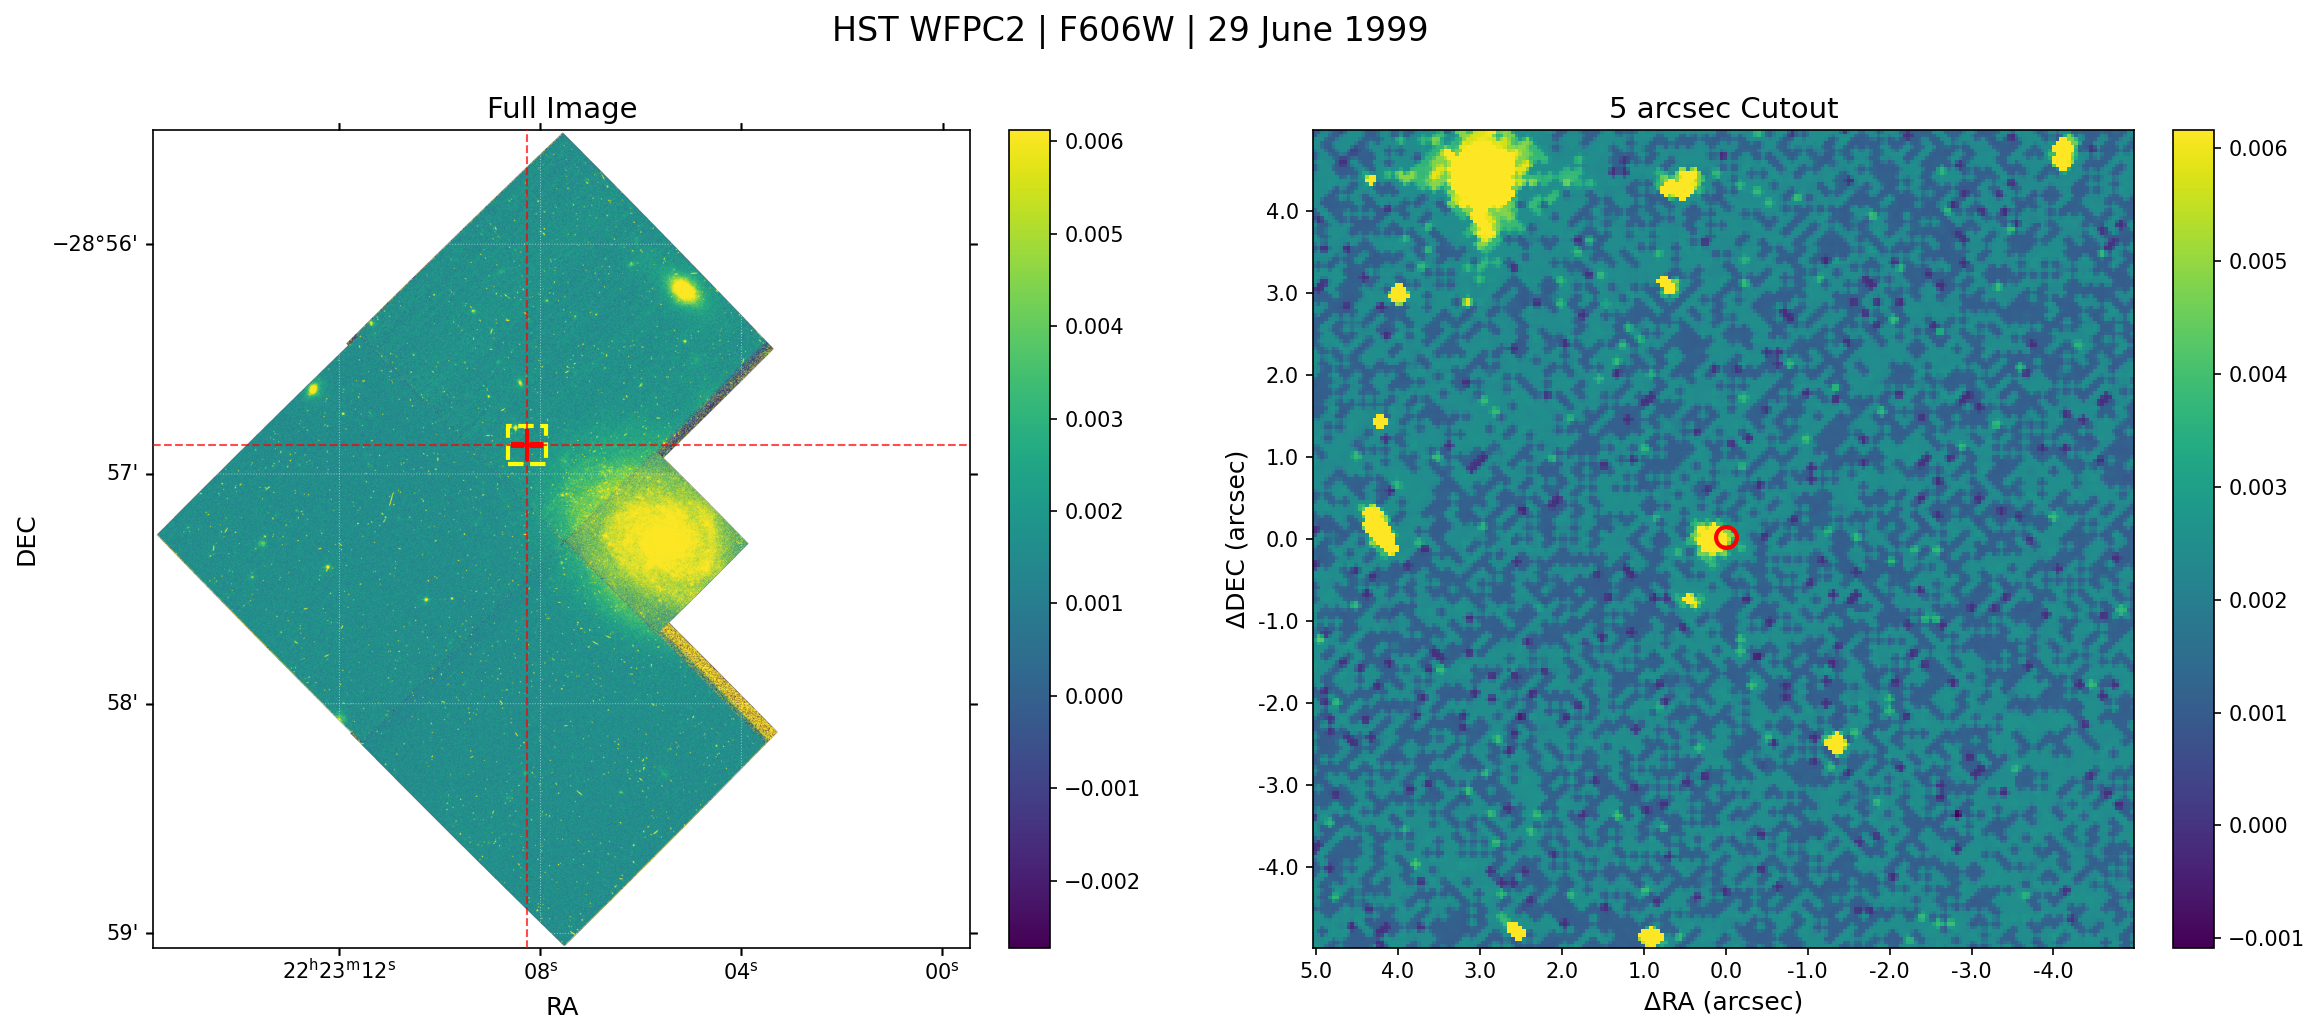
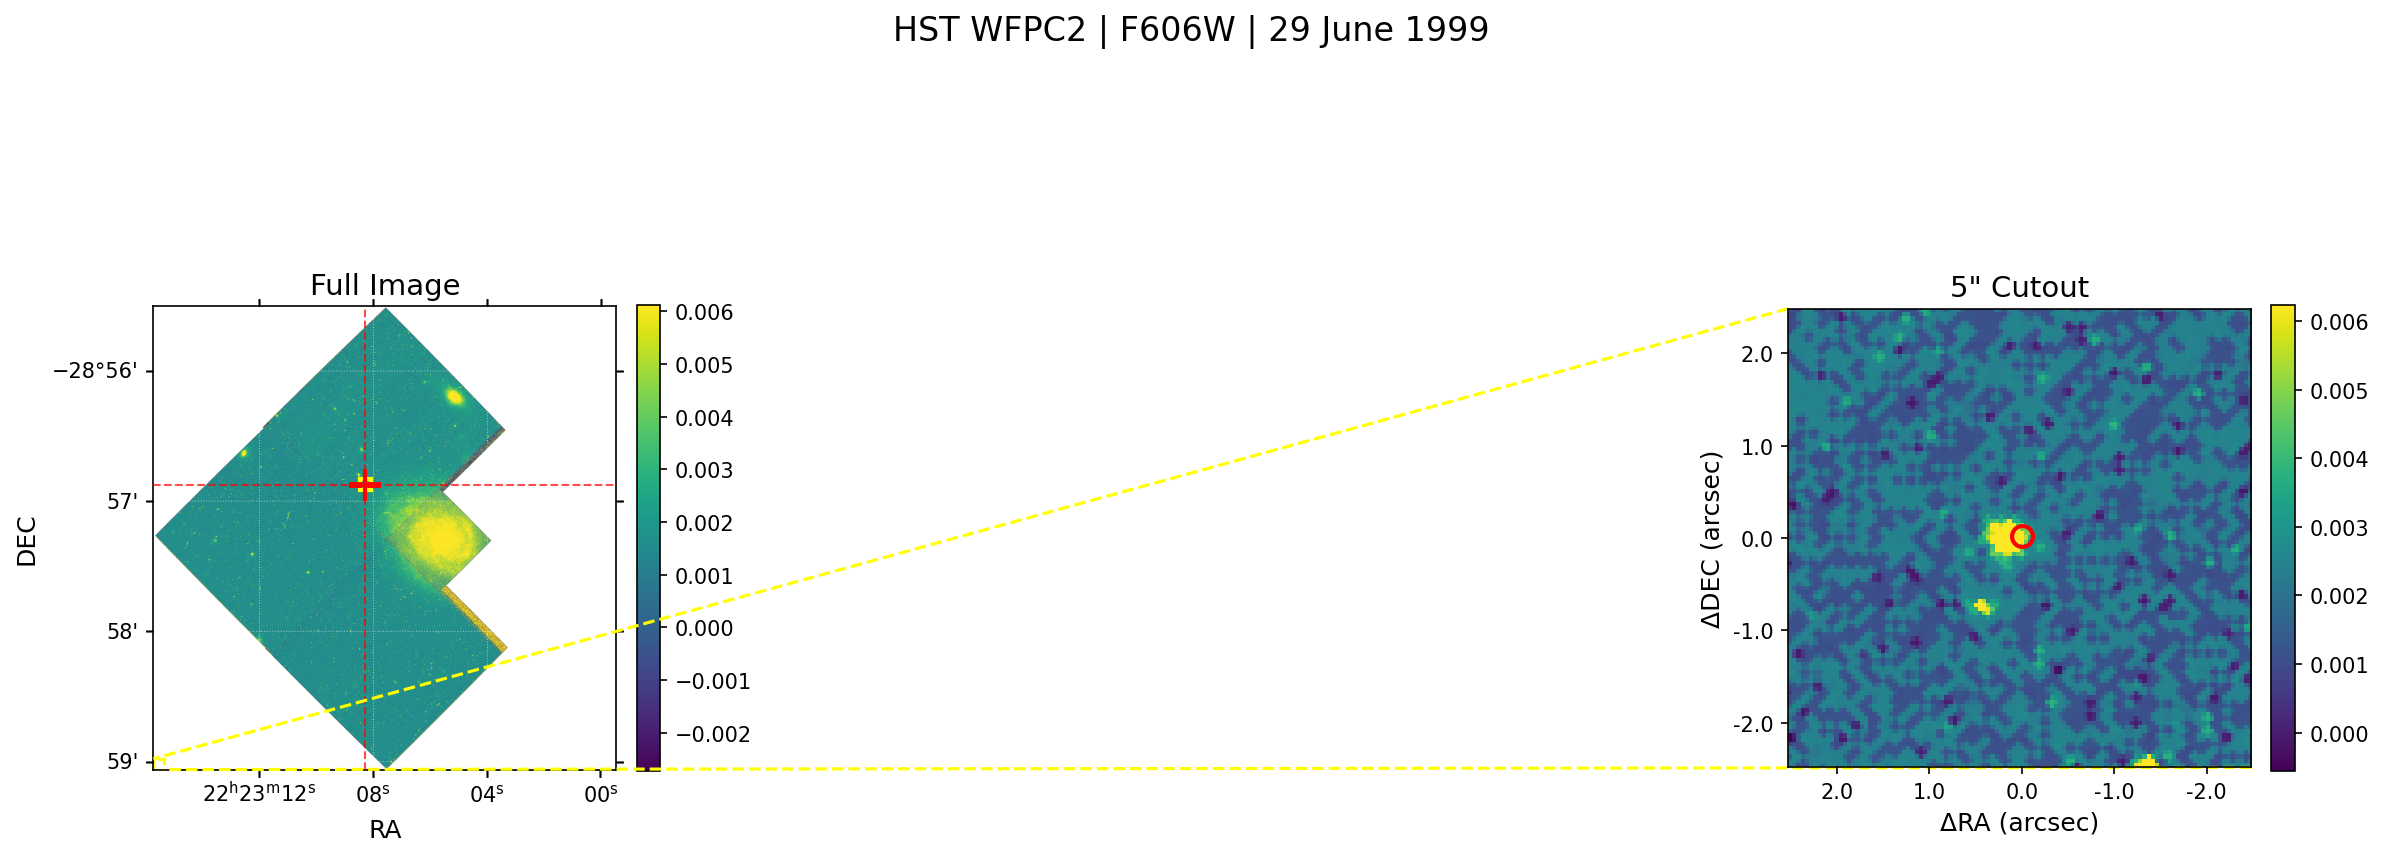
Shrink cutout to 5 arcsec wide (2.5" radius) and add mark_inset connectors
- Cutout radius changed from 5" to 2.5" (5" wide)
- Replace manual dashed rectangle with mark_inset connector lines (yellow)
- mark_inset called after axis limits are set so coordinates are correct
- Update example_output.png

diff --git a/check_HST_coverage.py b/check_HST_coverage.py
@@ -401,11 +401,11 @@ def plot_hst_images(image_files, output_file="hst_mosaic.png", target_ra=None, t
             
             plt.colorbar(im1, ax=ax1, fraction=0.046, pad=0.04)
             
-            # Right panel: 5 arcsec cutout (only if target is within bounds)
+            # Right panel: 5 arcsec wide (2.5 arcsec radius) cutout
             ax2 = fig.add_subplot(1, 2, 2)
             if target_ra is not None and target_dec is not None and target_in_bounds:
-                # Convert 5 arcsec to degrees
-                cutout_radius_deg = 5.0 / 3600.0  # 5 arcsec in degrees
+                # Convert 2.5 arcsec radius to degrees (gives 5 arcsec wide cutout)
+                cutout_radius_deg = 2.5 / 3600.0
                 
                 # Get pixel coordinates of target
                 x_target, y_target = wcs.world_to_pixel_values(target_ra, target_dec)
@@ -426,14 +426,14 @@ def plot_hst_images(image_files, output_file="hst_mosaic.png", target_ra=None, t
                 # Add rectangle on full image to mark cutout region
                 from matplotlib.patches import Rectangle
                 rect = Rectangle((x_min, y_min), x_max - x_min, y_max - y_min,
-                               linewidth=2, edgecolor='yellow', facecolor='none', linestyle='--')
+                               linewidth=2, edgecolor='yellow', facecolor='none')
                 ax1.add_patch(rect)
                 
                 # Display cutout with zscale
                 zscale_interval_cut = ZScaleInterval()
                 z1_cut, z2_cut = zscale_interval_cut.get_limits(cutout)
                 im2 = ax2.imshow(cutout, origin='lower', cmap='viridis', vmin=z1_cut, vmax=z2_cut)
-                ax2.set_title(f'5 arcsec Cutout', fontsize=14)
+                ax2.set_title(f'5" Cutout', fontsize=14)
                 
                 # Calculate RA/DEC offsets for axes in arcseconds
                 import numpy as np
@@ -474,10 +474,10 @@ def plot_hst_images(image_files, output_file="hst_mosaic.png", target_ra=None, t
                 y_arcsec_range = (ddec_col[0], ddec_col[-1])
                 
                 # Create tick values at 1 arcsec intervals within the actual range
-                def nice_ticks(arcsec_start, arcsec_end):
-                    """Generate tick values at 1 arcsec steps within the given range."""
+                def nice_ticks(arcsec_start, arcsec_end, step=1.0):
+                    """Generate tick values at given step within the range."""
                     lo, hi = min(arcsec_start, arcsec_end), max(arcsec_start, arcsec_end)
-                    return np.arange(np.ceil(lo), np.floor(hi) + 1, 1.0)
+                    return np.arange(np.ceil(lo / step) * step, np.floor(hi / step) * step + step * 0.5, step)
                 
                 x_tick_arcsec = nice_ticks(*x_arcsec_range)
                 y_tick_arcsec = nice_ticks(*y_arcsec_range)
@@ -502,6 +502,11 @@ def plot_hst_images(image_files, output_file="hst_mosaic.png", target_ra=None, t
                 # Set axis limits to match the cutout
                 ax2.set_xlim(-0.5, nx - 0.5)
                 ax2.set_ylim(-0.5, ny - 0.5)
+                
+                # Draw connector lines from the rectangle on the full image to the cutout panel
+                from mpl_toolkits.axes_grid1.inset_locator import mark_inset
+                mark_inset(ax1, ax2, loc1=2, loc2=4,
+                           fc='none', ec='yellow', lw=1.5, linestyle='--')
                 
                 # Add hollow circle at center
                 # Check for FWHM in header, otherwise use default